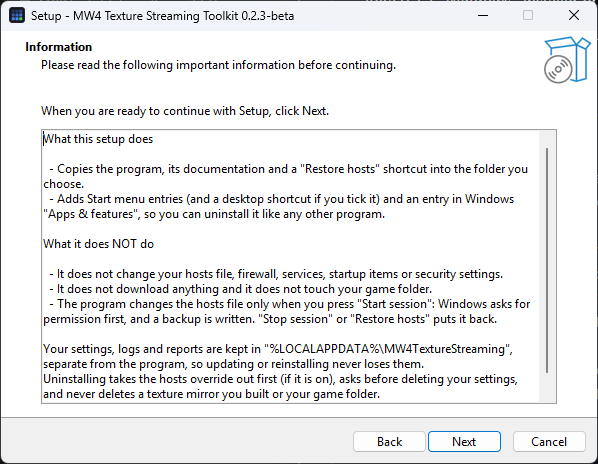
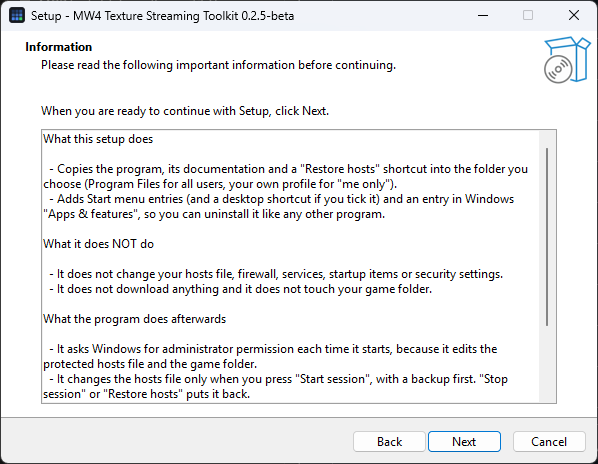
0.2.5-beta: the installer installs for all users by default (#15)
PrivilegesRequired=admin with the per-user choice kept on the first screen; the installer test and build.bat cover both modes; setup text, docs, changelog and installer screenshots updated.

diff --git a/packaging/test_installer.py b/packaging/test_installer.py
@@ -1,13 +1,16 @@
 #!/usr/bin/env python3
-"""test_installer.py - installs the built Setup.exe silently (per user, into a temp folder), checks the result, upgrades over it with the hosts block switched on, uninstalls,
-and checks that nothing is left behind. build.bat runs it after the build; by hand:
+"""test_installer.py - installs the built Setup.exe silently (into a temp folder), checks the result, upgrades over it with the hosts block switched on, uninstalls,
+and checks that nothing is left behind. build.bat runs it after the build, once for each way of installing; by hand:
 
-  python packaging/test_installer.py packaging/out/MW4-Texture-Streaming-<version>-Setup.exe
+  python packaging/test_installer.py packaging/out/MW4-Texture-Streaming-<version>-Setup.exe [--current-user | --all-users]
+
+--current-user (the default here) installs for the current user only; --all-users installs for everyone (the installer's default for people) and needs administrator rights,
+so it is skipped (exit 0, with a note) when this window is not elevated.
 
 It never touches the real hosts file or settings: CCS_HOSTS_PATH and CCS_WORK point at temp files, and the installer's own hooks inherit them. The only things outside the
 temp folder are the ones a real install makes (Start menu folder, desktop shortcut, uninstall entry), and they are removed again by the uninstall that this test runs.
 """
-import json, os, shutil, subprocess, sys, tempfile, time, winreg
+import ctypes, json, os, shutil, subprocess, sys, tempfile, time, winreg
 
 APPID = '{6B0F1F2E-7D3A-4C58-9E21-4A9D5C7B3E10}_is1'                       # installer.iss AppId
 APP = 'MW4 Texture Streaming'
@@ -20,9 +23,9 @@ def check(ok, what, detail=''):
         raise SystemExit(f'installer test failed: {what}')
 
 
-def uninstall_entry():
+def uninstall_entry(hive=winreg.HKEY_CURRENT_USER):
     try:
-        with winreg.OpenKey(winreg.HKEY_CURRENT_USER, r'Software\Microsoft\Windows\CurrentVersion\Uninstall' + '\\' + APPID) as k:
+        with winreg.OpenKey(hive, r'Software\Microsoft\Windows\CurrentVersion\Uninstall' + '\\' + APPID) as k:
             return dict(version=winreg.QueryValueEx(k, 'DisplayVersion')[0], uninstall=winreg.QueryValueEx(k, 'UninstallString')[0], where=winreg.QueryValueEx(k, 'InstallLocation')[0])
     except OSError:
         return None
@@ -33,15 +36,21 @@ def shell_folder(name):
 
 
 def main():
-    if len(sys.argv) != 2 or not os.path.exists(sys.argv[1]): sys.exit(__doc__)
+    args = [a for a in sys.argv[1:] if not a.startswith('--')]; flags = [a for a in sys.argv[1:] if a.startswith('--')]
+    if len(args) != 1 or not os.path.exists(args[0]) or any(f not in ('--current-user', '--all-users') for f in flags) or len(flags) > 1: sys.exit(__doc__)
+    allusers = flags == ['--all-users']; who = 'all users' if allusers else 'the current user'; hive = winreg.HKEY_LOCAL_MACHINE if allusers else winreg.HKEY_CURRENT_USER
+    if allusers and not ctypes.windll.shell32.IsUserAnAdmin(): print('skip: the all-users install needs administrator rights and this window has none'); return
+    sys.argv = [sys.argv[0], args[0]]; entry = lambda: uninstall_entry(hive)
     setup = os.path.abspath(sys.argv[1]); tmp = tempfile.mkdtemp(prefix='ccs-inst-'); app = os.path.join(tmp, 'program files', APP)         # a path with spaces, as real ones have
     hosts = os.path.join(tmp, 'hosts'); open(hosts, 'w').write('127.0.0.1 localhost\r\n'); data = os.path.join(tmp, 'data')
     env = dict(os.environ, CCS_HOSTS_PATH=hosts, CCS_WORK=data, PYTHONIOENCODING='utf-8')
-    if uninstall_entry(): sys.exit('an installed copy exists already: uninstall it first so this test does not touch it')
-    menu = os.path.join(os.environ['APPDATA'], 'Microsoft', 'Windows', 'Start Menu', 'Programs', APP); desk = os.path.join(shell_folder('Desktop'), APP + '.lnk')
+    if uninstall_entry(winreg.HKEY_CURRENT_USER) or uninstall_entry(winreg.HKEY_LOCAL_MACHINE): sys.exit('an installed copy exists already: uninstall it first so this test does not touch it')
+    if allusers: menu = os.path.join(os.environ['ProgramData'], 'Microsoft', 'Windows', 'Start Menu', 'Programs', APP); desk = os.path.join(os.environ.get('PUBLIC', 'C:\\Users\\Public'), 'Desktop', APP + '.lnk')
+    else: menu = os.path.join(os.environ['APPDATA'], 'Microsoft', 'Windows', 'Start Menu', 'Programs', APP); desk = os.path.join(shell_folder('Desktop'), APP + '.lnk')
+    if os.path.exists(menu) or os.path.exists(desk): sys.exit(f'shortcuts of an installed copy exist already ({menu} / {desk}): move them aside so this test does not delete them')
     def install(tag):
         log = os.path.join(tmp, tag + '.log')
-        try: return subprocess.run([setup, '/VERYSILENT', '/SUPPRESSMSGBOXES', '/NORESTART', f'/DIR={app}', f'/LOG={log}'], env=env, timeout=150).returncode
+        try: return subprocess.run([setup, '/VERYSILENT', '/SUPPRESSMSGBOXES', '/NORESTART', '/ALLUSERS' if allusers else '/CURRENTUSER', f'/DIR={app}', f'/LOG={log}'], env=env, timeout=150).returncode
         except subprocess.TimeoutExpired:                                         # a hang: show where it is stuck instead of waiting for the CI time limit
             print(f'setup ({tag}) did not finish in 150 s; its log:'); print(open(log, errors='replace').read()[-3500:] if os.path.exists(log) else '(no log)')
             ps = "Get-CimInstance Win32_Process | Where-Object { $_.Name -match 'ccs-cli|MW4|ipconfig|tasklist|netstat|_unins|Setup|python' } | Select-Object ProcessId,ParentProcessId,Name,CommandLine | Format-List | Out-String -Width 300"
@@ -49,11 +58,11 @@ def main():
             subprocess.run(['taskkill', '/F', '/T', '/IM', os.path.basename(setup)], capture_output=True); subprocess.run(['taskkill', '/F', '/T', '/IM', '_unins.tmp'], capture_output=True)
             raise SystemExit(f'installer test failed: setup ({tag}) hung')
     try:
-        print('install'); check(install('install') == 0, 'setup exits 0 (silent, per user, no administrator rights)')
+        print(f'install for {who}'); check(install('install') == 0, f'setup exits 0 (silent, for {who})')
         exe, cli = os.path.join(app, APP + '.exe'), os.path.join(app, 'ccs-cli.exe')
         for rel in (APP + '.exe', 'ccs-cli.exe', 'README.md', 'LICENSE', 'DISCLAIMER.md', 'Restore hosts.bat', 'START HERE.txt', os.path.join('docs', 'GETTING-STARTED.md')): check(os.path.exists(os.path.join(app, rel)), f'installed: {rel}')
         check(not os.path.exists(os.path.join(app, 'portable.txt')), 'no portable.txt (an installed copy keeps its data in the local app data folder)')
-        e = uninstall_entry(); check(bool(e) and e['version'] and os.path.normcase(e['where'].rstrip('\\')) == os.path.normcase(app), f"uninstall entry (Apps & features) for version {e and e['version']}")
+        e = entry(); check(bool(e) and e['version'] and os.path.normcase(e['where'].rstrip('\\')) == os.path.normcase(app), f"uninstall entry (Apps & features) for version {e and e['version']}")
         check(os.path.isdir(menu) and os.path.exists(os.path.join(menu, APP + '.lnk')) and os.path.exists(os.path.join(menu, 'Restore hosts.lnk')), 'Start menu entries')
         check(os.path.exists(desk), 'desktop shortcut (the default task)')
         r = subprocess.run([cli, '--version'], capture_output=True, text=True, env=env, timeout=60); check(e['version'] in r.stdout, 'the installed program runs and reports the same version')
@@ -63,7 +72,7 @@ def main():
         subprocess.run([cli, '--ccs-run', 'ccshosts', 'apply', '--no-flush'], env=env, timeout=60, capture_output=True); check('cod-assets' in open(hosts).read(), 'precondition: hosts block present')
         check(install('upgrade') == 0, 'setup over an existing install exits 0')
         check('cod-assets' not in open(hosts).read() and 'localhost' in open(hosts).read(), 'setup put the hosts file back before replacing files (and kept other lines)')
-        check(os.path.exists(exe) and uninstall_entry() is not None, 'still installed after the upgrade')
+        check(os.path.exists(exe) and entry() is not None, 'still installed after the upgrade')
 
         print('uninstall with the hosts block on')
         subprocess.run([cli, '--ccs-run', 'ccshosts', 'apply', '--no-flush'], env=env, timeout=60, capture_output=True); os.makedirs(data, exist_ok=True); open(os.path.join(data, 'gui_settings.json'), 'w').write('{}')
@@ -72,12 +81,12 @@ def main():
             if not os.path.exists(app): break
             time.sleep(0.5)
         check(not os.path.exists(app), 'program folder is gone')
-        check(uninstall_entry() is None, 'uninstall entry is gone'); check(not os.path.exists(menu), 'Start menu folder is gone'); check(not os.path.exists(desk), 'desktop shortcut is gone')
+        check(entry() is None, 'uninstall entry is gone'); check(not os.path.exists(menu), 'Start menu folder is gone'); check(not os.path.exists(desk), 'desktop shortcut is gone')
         check('cod-assets' not in open(hosts).read() and 'localhost' in open(hosts).read(), 'the hosts block was removed by the uninstaller (other lines kept)')
         check(os.path.exists(os.path.join(data, 'gui_settings.json')), 'settings are kept by a silent uninstall (they are only deleted when the user says yes)')
-        print('all installer checks passed')
+        print(f'all installer checks passed (for {who})')
     finally:
-        e = uninstall_entry()
+        e = entry()
         if e:
             subprocess.run([e['uninstall'].strip('"'), '/VERYSILENT', '/SUPPRESSMSGBOXES', '/NORESTART'], env=env, timeout=300); time.sleep(3)
         shutil.rmtree(tmp, ignore_errors=True)

diff --git a/tools/tests/test_admin.py b/tools/tests/test_admin.py
@@ -50,6 +50,13 @@ class Packaging(unittest.TestCase):
         line = next(l for l in read('packaging', 'installer.iss').splitlines() if l.startswith('Filename: "{app}\\{#AppExe}"') and 'postinstall' in l)
         self.assertIn('shellexec', line); self.assertIn('skipifsilent', line)
 
+    def test_setup_installs_for_all_users_by_default_and_still_offers_the_current_user(self):
+        iss = read('packaging', 'installer.iss'); self.assertRegex(iss, r'(?m)^PrivilegesRequired=admin$'); self.assertRegex(iss, r'(?m)^PrivilegesRequiredOverridesAllowed=dialog$')
+
+    def test_the_build_tests_both_ways_of_installing(self):
+        bat = read('packaging', 'build.bat'); self.assertIn('--current-user', bat); self.assertIn('--all-users', bat)
+        ti = read('packaging', 'test_installer.py'); self.assertIn("'/ALLUSERS' if allusers else '/CURRENTUSER'", ti), self.assertIn('HKEY_LOCAL_MACHINE', ti)
+
     def test_the_build_checks_the_manifest(self):
         self.assertIn('requireAdministrator', read('packaging', 'build.py'))
 

diff --git a/tools/ccslib/version.py b/tools/ccslib/version.py
@@ -1,5 +1,5 @@
 """version.py - version, client identification and the short notice shown by the tools (CLI --help footer, GUI first run)."""
-__version__ = '0.2.4-beta'
+__version__ = '0.2.5-beta'
 REPO_URL = 'https://github.com/voidfnc/mw4-texture-streaming-research'
 USER_AGENT = f'mw4-texture-streaming-toolkit/{__version__} (+{REPO_URL})'
 

diff --git a/README.md b/README.md
@@ -1,6 +1,6 @@
 # MW4 Texture Streaming Toolkit
 
-Beta 0.2.4 · Windows · installer or portable zip (no Python needed) · from source: Python 3.10+, standard library only
+Beta 0.2.5 · Windows · installer or portable zip (no Python needed) · from source: Python 3.10+, standard library only
 
 I started this because the Modern Warfare campaign on my PC looked blurry no matter what I did in the graphics menu. Walls and character gear sat on the lowest
 texture tier even with every setting maxed out. The game is supposed to download higher-resolution texture pieces from a CDN while you play, and on my machine
@@ -49,7 +49,7 @@ Pick one. The files are on the [Releases page](https://github.com/voidfnc/mw4-te
 
 | | What you get | Who it is for |
 |---|---|---|
-| **Installer** (recommended) | `MW4-Texture-Streaming-<version>-Setup.exe`. Double-click, Next, Install. Installs for you only (setup needs no administrator rights); "for all users" is an option on the first screen. The program itself asks for administrator permission when it starts. Start menu entries, optional desktop shortcut, uninstall in *Apps & features*. | Most people. Needs no Python. |
+| **Installer** (recommended) | `MW4-Texture-Streaming-<version>-Setup.exe`. Double-click, Next, Install. Installs for all users by default (Program Files, one Windows permission prompt); "for me only" (no administrator rights, in your own profile) is an option on the first screen. The program itself also asks for administrator permission when it starts. Start menu entries, optional desktop shortcut, uninstall in *Apps & features*. | Most people. Needs no Python. |
 | **Portable zip** | `MW4-Texture-Streaming-<version>-win64-portable.zip`. Unzip anywhere and run `MW4 Texture Streaming.exe`. Nothing is installed; settings stay in a `data` folder next to it; delete the folder to remove it. | Locked-down PCs, a USB stick, trying it out. |
 | **From source** | Clone this repository and run `python tools\ccsgui.py` (Python 3.10+, standard library only). See [Running from source](#running-from-source). | Developers and advanced users. Everything is in this repository. |
 
@@ -58,16 +58,16 @@ Windows may say "Windows protected your PC" (SmartScreen) because the files are 
 
 ## What it looks like
 
-**The installer** asks whether to install for you only (the default, no administrator rights) or for all users, shows the notice and licence, says what it will and will not do, and
+**The installer** asks whether to install for all users (the default: Program Files, one permission prompt) or for you only (no administrator rights), shows the notice and licence, says what it will and will not do, and
 offers the shortcuts. Cancelling at any point installs nothing.
 
-![Install mode: for me only (recommended) or for all users](docs/images/installer-0-mode.png)
+![Install mode: for all users (recommended) or for me only](docs/images/installer-0-mode.png)
 ![Notice and licence page](docs/images/installer-1-license.png)
 ![What setup does and does not do](docs/images/installer-2-info.png)
 ![Shortcut options](docs/images/installer-3-options.png)
 
 **The program.** Screenshots of version **0.2.3-beta** on Windows 11. They show demo numbers from a throw-away folder: no game was running, and there is no game imagery in them. They are
-regenerated when the windows change (`python tools\make_screenshots.py`; the installer pages with `python packaging\shoot_installer.py`); the version in the title bar is the version they were taken with. Later versions start with an administrator prompt, so the installer's information page and the first line of the activity log read slightly differently there.
+regenerated when the windows change (`python tools\make_screenshots.py`; the installer pages with `python packaging\shoot_installer.py`); the version in the title bar is the version they were taken with. Later versions start with an administrator prompt, so the first line of the activity log reads slightly differently there. The four installer pages above are from 0.2.5-beta.
 
 **Guided setup in Simple view**: the checklist ticks the steps it can verify and highlights the next button (here *Start session*).
 
@@ -112,8 +112,9 @@ files in the game folder. With the rights from the start, none of these asks aga
 game setup you confirm, and its own files. If you decline the prompt the program still starts and asks for permission for each hosts-file change, as before. From source, the
 window relaunches itself elevated once (`CCS_NO_ELEVATE=1` or `--no-elevate` keeps it unelevated). The setup program itself runs without administrator rights.
 
-Because the program runs elevated, whoever can change its files can make it run their code with those rights. The installer's default folder is inside your own profile, so other
-programs that run as you could replace those files; if that matters to you, install for all users (Program Files), or keep the portable zip in a folder only you can write to.
+Because the program runs elevated, whoever can change its files can make it run their code with those rights. That is why the installer's default is to install for all users (Program Files):
+only an administrator can change files there. If you choose "for me only", the files are inside your own profile and other programs that run as you could replace them; the portable zip
+has the same property, so keep it in a folder only you can write to.
 
 ## If something doesn't work
 

diff --git a/docs/USAGE.md b/docs/USAGE.md
@@ -9,7 +9,7 @@ that you have to accept once per version; on the command line the same thing is 
 
 | | Program | Settings, logs, reports (`work` below) | Helpers and command line |
 |---|---|---|---|
-| Installer | `%LOCALAPPDATA%\Programs\MW4 Texture Streaming` (or Program Files for "all users") | `%LOCALAPPDATA%\MW4TextureStreaming` | `ccs-cli.exe --ccs-run <tool> ...` |
+| Installer | `C:\Program Files\MW4 Texture Streaming` (all users, the default) or `%LOCALAPPDATA%\Programs\MW4 Texture Streaming` ("for me only") | `%LOCALAPPDATA%\MW4TextureStreaming` | `ccs-cli.exe --ccs-run <tool> ...` |
 | Portable zip | where you unzipped it | a `data` folder next to the program (because of `portable.txt`) | `ccs-cli.exe --ccs-run <tool> ...` |
 | Source | the cloned repository | `tools\work` | `python tools\<tool>.py ...` |
 
@@ -18,7 +18,7 @@ stops the proxy and disk guard and makes a shortcut, without touching the hosts 
 
 **Update:** run the newer Setup.exe over the old one (the zip: unzip over the old folder, keeping `data`). Setup stops the helpers and puts the hosts file back first if a session is on.
 **Uninstall:** *Apps & features*. If the hosts override is on, it is removed first; you are asked before settings are deleted; a texture mirror and the game folder are never deleted.
-**Silent install** (for scripts): `Setup.exe /VERYSILENT /DIR="D:\Tools\MW4 Texture Streaming" /MERGETASKS="!desktopicon"`; add `/ALLUSERS` for all users.
+**Silent install** (for scripts): `Setup.exe /VERYSILENT /DIR="D:\Tools\MW4 Texture Streaming" /MERGETASKS="!desktopicon"`; all users is the default (administrator rights needed); add `/CURRENTUSER` for the current user only, without administrator rights. If you change from one to the other, uninstall the old copy first.
 
 ## Guided setup (optional)
 

diff --git a/docs/GETTING-STARTED.md b/docs/GETTING-STARTED.md
@@ -14,8 +14,8 @@ also a short test to compare it on your own PC.
 
 Download from the [Releases page](https://github.com/voidfnc/mw4-texture-streaming-research/releases) and pick one:
 
-- **The installer** (`...-Setup.exe`, recommended): double-click, accept the notice, press Next and Install. It installs for you only, so setup itself does not ask for an administrator
-  password; "for all users" is an option on its first screen. The program asks for administrator permission each time it starts (the *UAC prompt*): answer Yes. It adds a Start menu entry (and a desktop shortcut if you leave that ticked) and a normal uninstall entry in
+- **The installer** (`...-Setup.exe`, recommended): double-click, accept the notice, press Next and Install. It installs for all users by default (in Program Files, with one Windows permission prompt);
+  "for me only" is an option on its first screen and needs no administrator rights. The program asks for administrator permission each time it starts (the *UAC prompt*): answer Yes. It adds a Start menu entry (and a desktop shortcut if you leave that ticked) and a normal uninstall entry in
   *Apps & features*. It does not touch your hosts file or your game folder.
 - **The portable zip** (`...-portable.zip`): unzip it anywhere and double-click `MW4 Texture Streaming.exe`. Nothing is installed, and your settings stay in a `data` folder next to it.
 - **From source**, if you prefer to run the code yourself: see the README.

diff --git a/CHANGELOG.md b/CHANGELOG.md
@@ -1,5 +1,16 @@
 # Changelog
 
+## 0.2.5-beta
+**The installer installs for all users by default.** "For me only" stays an option on its first screen.
+
+- **Program Files by default.** The program runs as administrator, so its files should be somewhere only an administrator can change: setup now asks for one Windows permission prompt and
+  installs into Program Files for all users (uninstall entry and shortcuts for everyone). "For me only" installs into your own profile without administrator rights, as before; the
+  README's *Administrator rights* section says what that choice means. Silent installs: all users is the default, `/CURRENTUSER` for the current user only. If you switch from one to the
+  other, uninstall the old copy first.
+- **The installer test covers both.** `packaging\build.bat` installs, upgrades (with the hosts block on) and uninstalls once for the current user and once for all users (when the build
+  window is elevated), and refuses to run if shortcuts of a real installed copy are in the way.
+- The installer's four README screenshots are retaken for this version; the program's screenshots are still from 0.2.3-beta.
+
 ## 0.2.4-beta
 **The program runs as administrator by default.** It asks for permission once, when it starts, instead of per action.
 
